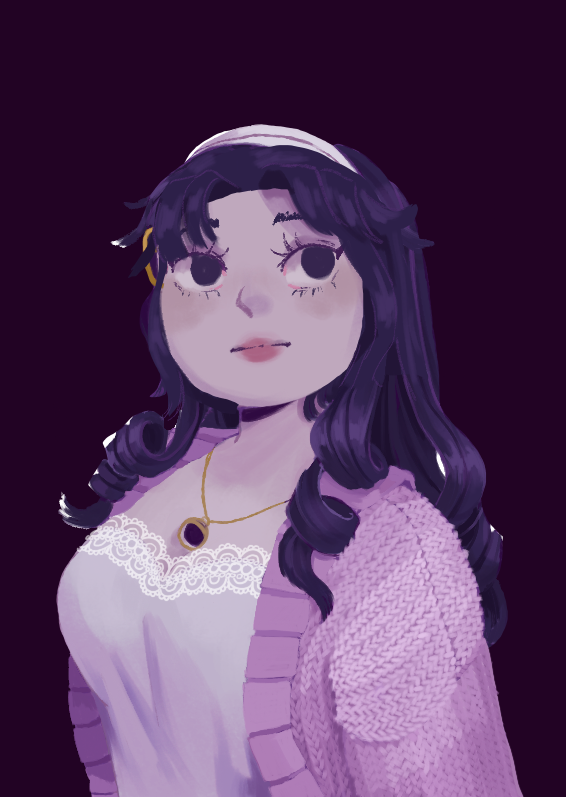
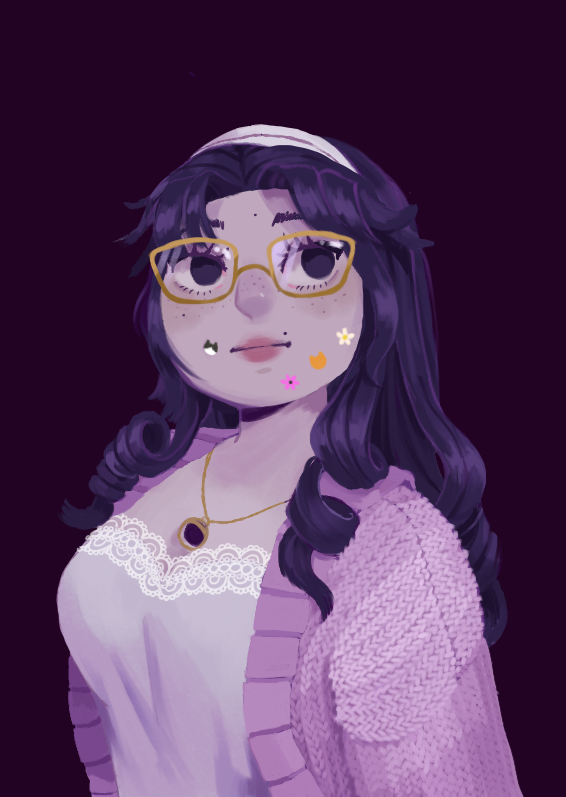
updated home UI

diff --git a/index.html b/index.html
@@ -206,7 +206,7 @@
                         <div class="col-xxl-7 col-lg-7 col-md-12">
                             <div class="d-flex">
                                 <h1 class="display-text">Hi, Im Maddie</h1>
-                                <h1 style="font-size: 47px; margin-top: -40px; margin-left: 8px;">💖</h1>
+                                <h1 class="home-hero-heart">💖</h1>
                             </div>
                             <!-- Modal START -->
                             <div class="modal-primary">
@@ -289,7 +289,11 @@
             <div class="pb-5">
                 <h2 class="display-section-text">Current<br>Passion Project</h2> 
                 <a href="#" class="cursor-coming-soon">
-                    <img class="w-100" src="imgs/current-prj-placeholder.png">
+                    <div class="current-passion-prj-thumbnail-container">
+                        <div class="current-passion-prj-thumbnail">
+                            <img src="imgs/passion-prj-desktop.png">
+                        </div>
+                    </div>
                 </a>
             </div>
             <!-- ===== Current Passion Project END ===== -->
@@ -313,7 +317,7 @@
                                     </div>
                                     <h4 class="w-500">Crafting Guidelines for Mspbots' Asset Team</h4>
                                 </div>
-                                <div>
+                                <div class="d-lg-block d-md-none d-sm-none">
                                     <p class="label-secondary">Output</p>
                                     <div class="h-stack space-5">
                                         <div class="d-flex align-items-center gap-2">
@@ -334,7 +338,7 @@
                                     <p>A 3-week internal project where I was requested to create a design guideline PDF for the company’s Asset Team on constructing the Welcome Screens of our apps.</p>
                                     <div class="h-stack space-2">
                                         <a class="btn-primary-outline" href="case-studies/crafting-guidelines-for-mspbots-asset-team.html">Learn More</a>
-                                        <a class="btn-secondary-outline" href="https://demo.hellomaddie.com/welcom-screen-guidelines/index.html">Visit Passion Project</a>
+                                        <!--<a class="btn-secondary-outline" href="https://demo.hellomaddie.com/welcom-screen-guidelines/index.html">Visit Passion Project</a>-->
                                     </div>
                                 </div>
                             </div>
@@ -356,7 +360,7 @@
                                     </div>
                                     <h4 class="w-500">Restructuring Mspbots' Design System</h4>
                                 </div>
-                                <div>
+                                <div class="d-lg-block d-md-none d-sm-none">
                                     <p class="label-secondary">Output</p>
                                     <div class="h-stack space-5">
                                         <div class="d-flex align-items-center gap-2">
@@ -399,7 +403,7 @@
                                     </div>
                                     <h4 class="w-500">CRO Strategy and Shopify Development for Veii Apparel</h4>
                                 </div>
-                                <div>
+                                <div class="d-lg-block d-md-none d-sm-none">
                                     <p class="label-secondary">Output</p>
                                     <div class="h-stack space-5">
                                         <div class="d-flex align-items-center gap-2">
@@ -443,7 +447,7 @@
                                     </div>
                                     <h4 class="w-500">The Duck Stops Here: Designing Kuushys Posture Coaching App</h4>
                                 </div>
-                                <div>
+                                <div class="d-lg-block d-md-none d-sm-none">
                                     <p class="label-secondary">Output</p>
                                     <div class="h-stack space-5">
                                         <div class="d-flex align-items-center gap-2">
@@ -474,7 +478,7 @@
                 <!-- Desktop View END-->
                 
                 <!-- Mobile START -->
-                <div class="featured-works-mobile" style="margin-top: 40px;">
+                <div class="featured-works-mobile">
                     <div class="cs2-slider" data-cs2-slider data-autoplay="6000">
                         <div class="cs2-slider__track">
                             <!-- Slide 1 START -->
@@ -613,7 +617,7 @@
                 <!-- Testimonial 2 END -->
             </div>
         </div>
-        <img style="margin-top: -24px;" src="imgs/flower-divider.svg">
+         <div class="flower-divider" style="margin-top: -24px;" role="img" aria-label="flower divider"></div>
         <!-- ===== Testimonials END ===== -->
 
         <div class="grid-bg" id="contact">
@@ -711,14 +715,23 @@
                             <img class="selector-box-bottom-right" src="imgs/selector-box.svg" alt="selector-box">
                             <!--Selector Boxes END-->
                             <div class="selection-content" style="background-color: white;">
-                                <div class="d-flex align-items-center gap-2">
-                                    <img src="imgs/mail-01.svg">
-                                    <p>hellomaddie.uwu@gmail.com</p>
+                                <div class="contact-info-desktop">
+                                    <div class="d-flex align-items-center gap-2">
+                                        <img src="imgs/mail-01.svg">
+                                        <p>hellomaddie.uwu@gmail.com</p>
+                                    </div>
+                                    <div class="d-flex align-items-center gap-2">
+                                        <img src="imgs/marker-pin-01.svg">
+                                        <p>Metro Manila, PH</p>
+                                    </div>   
                                 </div>
-                                <div class="d-flex align-items-center gap-2">
-                                    <img src="imgs/marker-pin-01.svg">
+                                <div class="contact-info-mobile">
+                                    <p><b>Email Address:</b></p>
+                                    <p>hellomaddie.uwu@gmail.com</p>
+                                    <br>
+                                    <p><b>Address:</b></p>
                                     <p>Metro Manila, PH</p>
-                                </div>                             
+                                </div>                      
                             </div>
                         </div>
                         <!-- Contact Info END -->

diff --git a/index.css b/index.css
@@ -3,7 +3,14 @@
     background-repeat: repeat;
 }
 
+.home-hero-heart {
+    font-size: 47px; 
+    margin-top: -40px; 
+    margin-left: 8px;
+}
+
 .home-pink-gradient {
+    display: block;
     position: absolute;
     width: 60%;
     top: 0; left: 0; margin-top: -20px; margin-left: -20px; z-index: 0;
@@ -18,6 +25,7 @@
 }
 
 .home-purple-gradient {
+    display: block;
     position:absolute;
     right: 0;
     z-index: 0;
@@ -76,6 +84,30 @@
     padding-bottom: var(--space-5);
     margin-left: auto;
     margin-right: auto;
+}
+
+.current-passion-prj-thumbnail-container {
+    width: 100%;
+}
+
+.current-passion-prj-thumbnail {
+    position: relative;
+    border-radius: var(--space-3);
+    overflow: hidden;
+}
+
+.current-passion-prj-thumbnail::after {
+    content: "";
+    position: absolute;
+    inset: 0;
+    pointer-events: none;
+    box-shadow: 0 0 10px 0 rgba(113, 30, 138, 0.30) inset;
+}
+
+.current-passion-prj-thumbnail img {
+    display: block;
+    width: 100%;
+    height: auto;
 }
 
 .featured-card-thumbnail {
@@ -175,6 +207,10 @@
     margin-bottom: var(--space-6);
 }
 
+.contact-info-desktop {display: block;}
+
+.contact-info-mobile {display: none;}
+
 .newsletter-modal {
     float: right;
     width: 80%;
@@ -220,11 +256,7 @@
 
 /*Tablet*/ /*md*/
 @media screen and (max-width: 768px) {
-    .home-pink-gradient {
-    width: 100%;
-    margin-top: 40px;
-    margin-left: -170px;
-}
+    .home-pink-gradient {display: none;}
 
     .home-orange-gradient {margin-top: 300px;}
 
@@ -232,14 +264,15 @@
 
     .profile-pic {height: 300px;}
 
+    .home-purple-gradient {display: none;}
+
     .form-container {
         padding-left: 84px;
         padding-right: 84px;
     }
 
     .contact-info {
-        margin-left: auto;
-        margin-right: auto;
+        margin: 32px auto;
     }
 
     .newsletter-modal {
@@ -255,6 +288,8 @@
 
 /*Mobile*/ /*sm*/
 @media screen and (max-width: 567px) {
+    .home-hero-heart {margin-top: -29px;}
+
     .wavy-speech {margin-left: 0px; margin-right: 0px; width: 100%;}
 
     .form-container {
@@ -268,5 +303,9 @@
     }
 
     .contact-info {width: 100%;}
+
+    .contact-info-desktop {display: none;}
+
+    .contact-info-mobile {display: block;}
 }
 /*========================================================================*/

diff --git a/services/design-system-zero.html b/services/design-system-zero.html
@@ -1020,7 +1020,7 @@
             <!--Timeline Section END-->
 
             <!--The Investment START-->
-            <img src="imgs/flower-divider.svg" alt="flower divider">
+            <div class="flower-divider" role="img" aria-label="flower divider"></div>
             <div class="section-container investment-section">
                 <h5 class="text-center pt-5 pb-4">The Investment</h5>
                 <div class="row">
@@ -1546,7 +1546,7 @@
                     </div>                                    
                 </div>
             </div>
-            <img src="imgs/flower-divider.svg" alt="flower divider" style="margin-top: -24px;">
+            <div class="flower-divider" style="margin-top: -24px;" role="img" aria-label="flower divider"></div>
             <!--Add On Services END-->
 
             <!--CTA START-->

diff --git a/main-style.css b/main-style.css
@@ -472,6 +472,14 @@ footer {
     margin-top: -40px;
 }
 
+.flower-divider {
+    width: 100%;
+    height: 52px;
+    background-image: url(imgs/flower-divider.svg);
+    background-repeat: repeat-x;
+    background-position: left center;
+}
+
 
 /*Container Settings END*/
 /*========================================================================*/
@@ -1045,6 +1053,11 @@ input:user-invalid {
 
     .mobile-menu-overlay.is-open {
         display: block;
+    }
+
+    .display-section-text, .display-text {
+        font-size: 64px;
+        line-height: 59px;
     }
 
     .end {

diff --git a/case-study-catalogue.html b/case-study-catalogue.html
@@ -386,7 +386,7 @@
                     <!-- Testimonial 2 END -->
                 </div>
             </div>
-            <img style="margin-top: -24px;" src="imgs/flower-divider.svg">
+            <div class="flower-divider" style="margin-top: -24px;" role="img" aria-label="flower divider"></div>
             <!-- ===== Testimonials END ===== -->
 
             <!-- ===== Newsletter CTA START ===== -->
